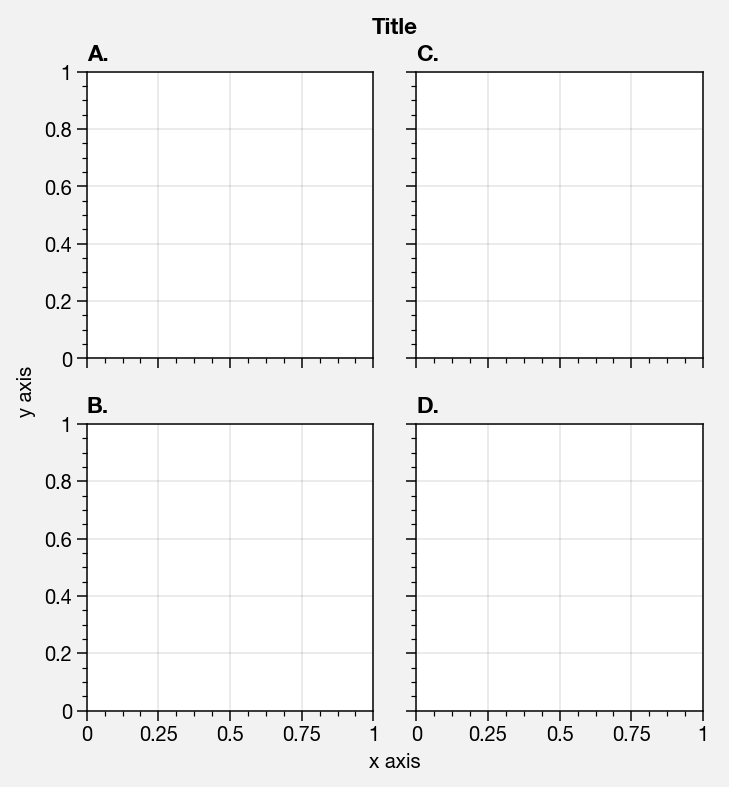
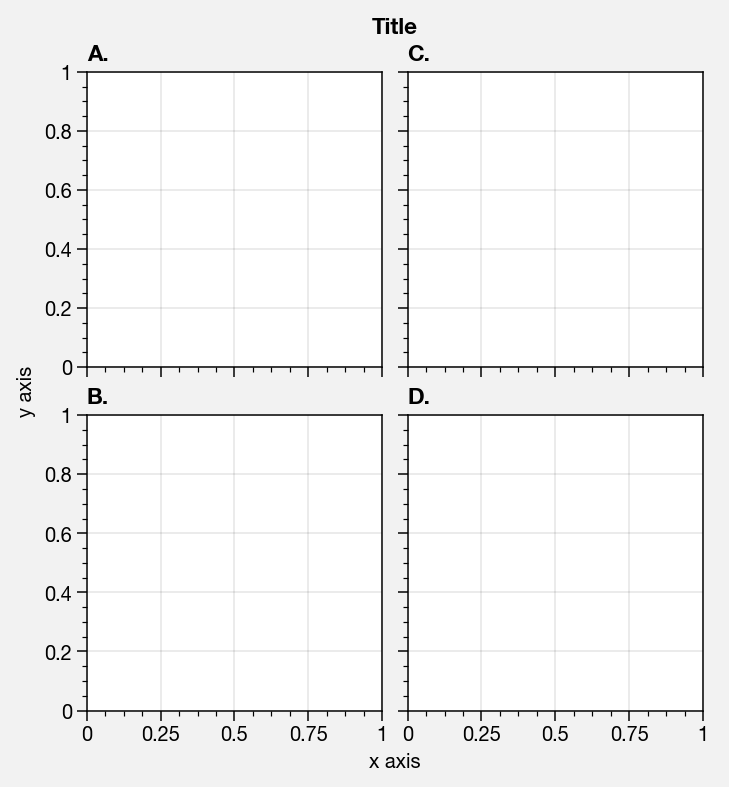
Fix inner padding ticks error

diff --git a/proplot/subplots.py b/proplot/subplots.py
@@ -102,20 +102,31 @@ class axes_list(list):
 def _ax_span(ax, renderer, children=True):
     """Get span, accounting for panels, shared axes, and whether axes has
     been replaced by colorbar in same location."""
-    bboxs = [ax.get_tightbbox(renderer)]
+    # Get bounding boxes
+    pairs = [(ax, ax.get_tightbbox(renderer))]
     ax = ax._colorbar_parent or ax
     if children:
-        children = (ax.leftpanel, ax.bottompanel, ax.rightpanel, ax.toppanel,
+        axs = (ax.leftpanel, ax.bottompanel, ax.rightpanel, ax.toppanel,
             ax._twinx_child, ax._twiny_child)
-        for sub in children:
-            if not sub:
+        for iax in axs:
+            if not iax:
                 continue
-            sub = sub._colorbar_child or sub
-            if sub.get_visible():
-                bboxs.append(sub.get_tightbbox(renderer))
-    bboxs = [box for box in bboxs if box is not None]
-    xs = np.array([bbox.intervalx for bbox in bboxs])
-    ys = np.array([bbox.intervaly for bbox in bboxs])
+            iax = iax._colorbar_child or iax
+            if iax.get_visible():
+                pairs.append((iax, iax.get_tightbbox(renderer)))
+    pairs = [(_,bbox) for _,bbox in pairs if bbox is not None]
+    # Adjust spans for tick error
+    # NOTE: intervaly coordinates are from bottom to top of axes
+    for ax,bbox in pairs:
+        if not isinstance(ax, axes.XYAxes):
+            continue
+        xerr = ax._ytick_pad_error # error in x-direction, due to y ticks
+        bbox.intervalx = [bbox.intervalx[0] + xerr[0], bbox.intervalx[1] - sum(xerr)]
+        yerr = ax._xtick_pad_error # error in y-direction, due to x ticks
+        bbox.intervaly = [bbox.intervaly[0] + yerr[0], bbox.intervaly[1] - sum(yerr)]
+    # Return arrays
+    xs = np.array([bbox.intervalx for _,bbox in pairs])
+    ys = np.array([bbox.intervaly for _,bbox in pairs])
     xspan = [xs[:,0].min(), xs[:,1].max()]
     yspan = [ys[:,0].min(), ys[:,1].max()]
     return xspan, yspan
@@ -200,12 +211,12 @@ class Figure(mfigure.Figure):
         self._rcreset = rcreset
         self._extra_pad      = 0 # sometimes matplotlib fails, cuts off super title! will add to this
         self._smart_outerpad = units(_default(outerpad, rc['subplot.outerpad']))
-        self._smart_mainpad  = units(_default(subplotpad,  rc['subplot.subplotpad']))
+        self._smart_subplotpad  = units(_default(subplotpad,  rc['subplot.subplotpad']))
         self._smart_innerpad = units(_default(innerpad, rc['subplot.innerpad']))
         _false = lambda x: x is not None and not x
         if _false(outertight) and _false(subplottight) and _false(innertight):
             tight = False # weird usage, but means user turned each individual part off
-        tight        = _default(tight, rc['tight'])
+        tight  = _default(tight, rc['tight'])
         self._smart_tight         = tight # note name _tight already taken!
         self._smart_tight_outer   = _default(outertight, tight)
         self._smart_tight_subplot = _default(subplottight, tight)
@@ -489,26 +500,58 @@ class Figure(mfigure.Figure):
             # Get bounding box that encompasses *all artists*, compare to bounding
             # box used for saving *figure*
             pad = self._smart_outerpad
-            if self._subplots_kw is None or self._gridspec is None:
-                warnings.warn('Could not find "_subplots_kw" or "_gridspec" attributes, cannot get tight layout.')
-                self._smart_tight_init = False
-                return
             obbox = self.bbox_inches # original bbox
             if not renderer: # cannot use the below on figure save! figure becomes a special FigurePDF class or something
                 renderer = self.canvas.get_renderer()
             bbox = self.get_tightbbox(renderer)
             ox, oy, x, y = obbox.intervalx, obbox.intervaly, bbox.intervalx, bbox.intervaly
-            if np.any(np.isnan(x) | np.isnan(y)):
-                warnings.warn('Bounding box has NaNs, cannot get tight layout.')
-                self._smart_tight_init = False
-                return
             # Apply new kwargs
-            left, bottom, right, top = x[0], y[0], ox[1]-x[1], oy[1]-y[1] # want *deltas*
-            left   = subplots_kw.left - left + pad
-            right  = subplots_kw.right - right + pad
-            bottom = subplots_kw.bottom - bottom + pad
-            top    = subplots_kw.top - top + pad + self._extra_pad
-            subplots_kw.update({'left':left, 'right':right, 'bottom':bottom, 'top':top})
+            if np.any(np.isnan(x) | np.isnan(y)):
+                warnings.warn('Bounding box has NaNs, cannot get outer tight layout.')
+            else:
+                left, bottom, right, top = x[0], y[0], ox[1]-x[1], oy[1]-y[1] # want *deltas*
+                left   = subplots_kw.left - left + pad
+                right  = subplots_kw.right - right + pad
+                bottom = subplots_kw.bottom - bottom + pad
+                top    = subplots_kw.top - top + pad + self._extra_pad
+                subplots_kw.update({'left':left, 'right':right, 'bottom':bottom, 'top':top})
+
+        #----------------------------------------------------------------------#
+        # Tick fudge factor
+        #----------------------------------------------------------------------#
+        # matplotlib seems to always draw "tight" bounding box around tick
+        # marks, *whether or not there are actually tick marks there!* Must have
+        # to do with get_tick_padding command; matplotlib tight layout probably
+        # just queries that, doesn't check whether ticks are actually present!
+        for ax in self.main_axes:
+            iaxs = [ax]
+            iaxs += [panel for panel in (ax.leftpanel, ax.rightpanel,
+                ax.bottompanel, ax.toppanel) if panel.on()]
+            for iax in iaxs:
+                if not isinstance(ax, axes.XYAxes):
+                    continue
+                # Store error in *points*, because we use it to adjust bounding
+                # box span, whose default units are in dots.
+                # NOTE: No matter the edge linewidth, seems to be additional
+                # error of exactly 1 point in span.
+                # Left right ticks
+                yticks = [*ax.yaxis.majorTicks, *ax.yaxis.minorTicks]
+                if yticks:
+                    wticks = []
+                    for tick in yticks:
+                        pad = tick.get_tick_padding()
+                        wticks.append((pad*(not tick.tick1On), pad*(not tick.tick2On)))
+                    iax._ytick_pad_error = np.array(wticks).max(axis=0)*self.dpi/72 # is left, right tuple
+                iax._ytick_pad_error += np.array([1, 1])*self.dpi/72
+                # Bottom top ticks
+                xticks = [*ax.xaxis.majorTicks, *ax.xaxis.minorTicks]
+                if xticks:
+                    hticks = []
+                    for tick in xticks:
+                        pad = tick.get_tick_padding()
+                        hticks.append((pad*(not tick.tick1On), pad*(not tick.tick2On)))
+                    iax._xtick_pad_error = np.array(hticks).max(axis=0)*self.dpi/72 # is bottom, top tuple
+                iax._xtick_pad_error += np.array([1, 1])*self.dpi/72
 
         #----------------------------------------------------------------------#
         # Prevent overlapping axis tick labels and whatnot *within* figure
@@ -580,7 +623,7 @@ class Figure(mfigure.Figure):
                         groups.append({'b':{bottom}, 't':{top}}) # form new group
                 ygroups.append(groups)
             # Correct wspace and hspace
-            pad = self._smart_mainpad
+            pad = self._smart_subplotpad
             wspace, hspace = [], []
             for space_orig, groups in zip(wspace_orig, xgroups):
                 if not groups:
@@ -592,6 +635,7 @@ class Figure(mfigure.Figure):
                     right = min(xspans[idx,0] for idx in group['r']) # axes on right side of column
                     seps.append((right - left)/self.dpi)
                 wspace.append(max((0, space_orig - min(seps) + pad)))
+                # print('w', 72*space_orig, 72*min(seps), 72*pad)
             for space_orig, groups in zip(hspace_orig, ygroups):
                 if not groups:
                     hspace.append(space_orig)
@@ -605,6 +649,7 @@ class Figure(mfigure.Figure):
                     # top = min(yspans[idx,0] for idx in group['t'])
                     # seps.append((top - bottom)/self.dpi)
                 hspace.append(max((0, space_orig - min(seps) + pad)))
+                # print('h', 72*space_orig, 72*min(seps), 72*pad)
             # If had panels, need to pull out args
             lspace, rspace, bspace = 0, 0, 0 # does not matter if no panels
             if self.leftpanel:
@@ -630,18 +675,22 @@ class Figure(mfigure.Figure):
                 yspans = [bbox.intervaly for bbox in bboxs]
                 # Bottom, top
                 for row in range(nrows):
-                    pairs = [(ax.bottompanel, yspan) for ax,yspan in zip(axs,yspans) if ax._yrange[1]==row]
+                    pairs = [(ax.bottompanel, yspan) for ax,yspan in zip(axs,yspans)
+                            if ax._yrange[1]==row]
                     if pairs:
                         self._inner_tight_layout(*zip(*pairs), renderer, side='b')
-                    pairs = [(ax.toppanel, yspan) for ax,yspan in zip(axs,yspans) if ax._yrange[0]==row]
+                    pairs = [(ax.toppanel, yspan) for ax,yspan in zip(axs,yspans)
+                            if ax._yrange[0]==row]
                     if pairs:
                         self._inner_tight_layout(*zip(*pairs), renderer, side='t')
                 # Left, right
                 for col in range(ncols):
-                    pairs = [(ax.leftpanel, xspan) for ax,xspan in zip(axs,xspans) if ax._xrange[0]==col]
+                    pairs = [(ax.leftpanel, xspan) for ax,xspan in zip(axs,xspans)
+                            if ax._xrange[0]==col]
                     if pairs:
                         self._inner_tight_layout(*zip(*pairs), renderer, side='l')
-                    pairs = [(ax.rightpanel, xspan) for ax,xspan in zip(axs,xspans) if ax._xrange[1]==col]
+                    pairs = [(ax.rightpanel, xspan) for ax,xspan in zip(axs,xspans)
+                            if ax._xrange[1]==col]
                     if pairs:
                         self._inner_tight_layout(*zip(*pairs), renderer, side='r')
                 # Reference axes
@@ -750,11 +799,11 @@ class Figure(mfigure.Figure):
         """
         # Notes
         # * Gridspec object must be updated before figure is printed to
-        #     screen in interactive environment; will fail to update after that.
-        #     Seems to be glitch, should open thread on GitHub.
+        #   screen in interactive environment; will fail to update after that.
+        #   Seems to be glitch, should open thread on GitHub.
         # * To color axes patches, you may have to explicitly pass the
-        #     transparent=False kwarg.
-        #     Some kwarg translations, to pass to savefig
+        #   transparent=False kwarg.
+        #   Some kwarg translations, to pass to savefig
         if 'alpha' in kwargs:
             kwargs['transparent'] = not bool(kwargs.pop('alpha')) # 1 is non-transparent
         if 'color' in kwargs:

diff --git a/proplot/axes.py b/proplot/axes.py
@@ -1726,6 +1726,10 @@ class XYAxes(BaseAxes):
         # formatter when it encounters certain types of data, like datetime.
         self.xaxis.isDefault_majfmt = True
         self.yaxis.isDefault_majfmt = True
+        # For tight layout; matplotlib draws tick bbox around ticks, even
+        # if they are actually all turned off.
+        self._xtick_pad_error = (0,0)
+        self._ytick_pad_error = (0,0)
 
     def __getattribute__(self, attr, *args):
         """

diff --git a/proplot/rcmod.py b/proplot/rcmod.py
@@ -225,6 +225,7 @@ _rcGlobals_children = {
     'cmap':       [],
     'lut':        ['image.lut'],
     'facecolor':  ['axes.facecolor'],
+    'alpha':      ['axes.alpha'], # this is a custom setting
     'hatch':      ['axes.hatch'],
     'grid':       ['axes.grid'],
     'geogrid':    ['axes.geogrid'],

diff --git a/docs/showcase.rst b/docs/showcase.rst
@@ -131,11 +131,12 @@ of the world doesn’t use “inches”, so I thought this would be useful.
 
 Subplot labelling is another useful ProPlot feature. The label order is
 row-major by default; to change this, use the
-`~proplot.subplots.subplot` ``order`` keyword arg. Change the label
-position with the ``abcpos`` `~proplot.rcmod` option, or the label
-style with the ``abcformat`` `~proplot.rcmod` option. Toggle labelling
-with ``abc=True``. See :ref:`Formatting your axes` and
-:ref:`Global settings` for details.
+`~proplot.subplots.subplot` ``order`` keyword arg.
+
+Change the label position with the ``abcpos`` `~proplot.rcmod` option,
+or the label style with the ``abcformat`` `~proplot.rcmod` option.
+Toggle labelling with ``abc=True``. See :ref:`Formatting your axes`
+and :ref:`Global settings` for details.
 
 .. code:: ipython3
 
@@ -143,8 +144,8 @@ with ``abc=True``. See :ref:`Formatting your axes` and
     plot.nbsetup()
     f, axs = plot.subplots(nrows=2, ncols=2, order='F', axwidth=1.5)
     axs.format(abc=True, abcpos='ol', abcformat='A.', xlabel='x axis', ylabel='y axis', suptitle='Title')
-    f, axs = plot.subplots(nrows=8, ncols=8, axwidth=0.5, subplottight=False, wspace=0, hspace=0) # not 
-    axs.format(abc=True, abcpos='ir', xlabel='x axis', ylabel='y axis', xticks=[], yticks=[], suptitle='Title')
+    f, axs = plot.subplots(nrows=8, ncols=8, axwidth=0.5, subplotpad=0) # not 
+    axs.format(alpha=0, abc=True, abcpos='ir', xlabel='x axis', ylabel='y axis', xticks=[], yticks=[], suptitle='Title')
 
 
 
@@ -155,8 +156,8 @@ with ``abc=True``. See :ref:`Formatting your axes` and
 
 
 .. image:: showcase/showcase_10_1.png
-   :width: 436px
-   :height: 446px
+   :width: 562px
+   :height: 572px
 
 
 To set up a complex grid of subplots, use a 2D array of integers. You
